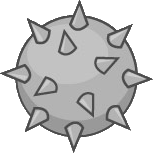
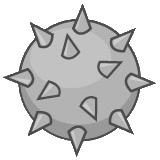
dodavanje_pile

diff --git a/Tica_Android_2/Game1.cs b/Tica_Android_2/Game1.cs
@@ -35,6 +35,7 @@ namespace Tica_Android_2
 			player1.speed += 1;
 			sljedeciLevel += 1;
 			maca.brzina_kretanja += 1;
+			pila.brzina_kretanja = maca.brzina_kretanja - 1;
 
 		}
 		IsolatedStorageFile savegameStorage = IsolatedStorageFile.GetUserStoreForDomain();
@@ -49,6 +50,11 @@ namespace Tica_Android_2
 		Stopwatch sat;
 
 		Barijera maca;
+		Barijera pila;
+		float rotacija_pile;
+		Vector2 pila_origin;
+		float pila_scale;
+
 		Stit stit;
 		LevelUp lvlUp;
 		public GraphicsDeviceManager graphics;
@@ -103,6 +109,7 @@ namespace Tica_Android_2
 			player1.playerAnimation.Initialize();
 			sljedeciLevel = lvlUp.level + 1;
 			sat = new Stopwatch ();
+			rotacija_pile = 0;
 			currentGameState = GameState.Start;
 
 
@@ -180,13 +187,19 @@ namespace Tica_Android_2
 				new Rectangle(red_prepreka[0].rectangle.X+udaljenost_barijera, 100, 35, 100), false, visina);
 			red_prepreka.Add (barijera1);
 
-			barijera2 = new Barijera(Content.Load<Texture2D>("barijera"), new Rectangle(red_prepreka[1].rectangle.X+udaljenost_barijera, 400, 35, 100));
+			pila = new Barijera(Content.Load<Texture2D>("pila"), new Rectangle(red_prepreka[1].rectangle.X+udaljenost_barijera, 0,  80,  80));
+			red_prepreka.Add (pila);
+			pila_origin = new Vector2 (pila.texture.Width/ 2, pila.texture.Height/ 2);
+			pila_scale = ((float)(pila.rectangle.Width) / (float)(pila.texture.Width));
+
+
+			barijera2 = new Barijera(Content.Load<Texture2D>("barijera"), new Rectangle(red_prepreka[2].rectangle.X+udaljenost_barijera, 400, 35, 100));
 			red_prepreka.Add (barijera2);
 
-			barijera3 = new PokretnaBarijera(Content.Load<Texture2D>("barijera"), new Rectangle(red_prepreka[2].rectangle.X+udaljenost_barijera, 500, 35, 100), true, sirina);
+			barijera3 = new PokretnaBarijera(Content.Load<Texture2D>("barijera"), new Rectangle(red_prepreka[3].rectangle.X+udaljenost_barijera, 500, 35, 100), true, sirina);
 			red_prepreka.Add (barijera3);
 
-			maca = new Barijera(Content.Load<Texture2D>("maca"), new Rectangle(red_prepreka[3].rectangle.X+udaljenost_barijera, 0,  80,  80));
+			maca = new Barijera(Content.Load<Texture2D>("maca"), new Rectangle(red_prepreka[4].rectangle.X+udaljenost_barijera, 0,  80,  80));
 			red_prepreka.Add (maca);
 		}
 
@@ -250,7 +263,14 @@ namespace Tica_Android_2
 				player1.Update (gameTime, graphics.PreferredBackBufferHeight, graphics.PreferredBackBufferWidth);
 
 				int t = r.Next (5, 30);
-				maca.Update (player1,ref udaljenost_barijera,visina, sirina* 3,red_prepreka);
+				maca.Update (player1, ref udaljenost_barijera, visina, sirina * 3, red_prepreka);
+				pila.Update (player1, ref udaljenost_barijera, visina, sirina * 3, red_prepreka);
+				rotacija_pile += 0.1f;
+				if (rotacija_pile > 10)
+					rotacija_pile = 0;
+
+
+				
 
 				//triba uštimat s velicinom sprite-a
 				///////////////////////////////////////
@@ -359,8 +379,11 @@ namespace Tica_Android_2
 					barijera1.Draw (spriteBatch);
 					barijera2.Draw (spriteBatch);
 					barijera3.Draw (spriteBatch);
-					spriteBatch.Draw (maca.texture, new Rectangle (maca.rectangle.X, maca.rectangle.Y, 80, 80), Color.White);
+					maca.Draw (spriteBatch);
+
+					//spriteBatch.Draw(pila.texture,pila.rectangle, null, Color.White, rotacija_pile, pila_origin,  SpriteEffects.None, 0);
 					// stit.Draw(spriteBatch);
+					spriteBatch.Draw (pila.texture, new Vector2(pila.rectangle.X,pila.rectangle.Y), null, Color.White, rotacija_pile, pila_origin, pila_scale, SpriteEffects.None, 0);
 
 					player1.playerAnimation.Draw (spriteBatch);
 					spriteBatch.End ();
